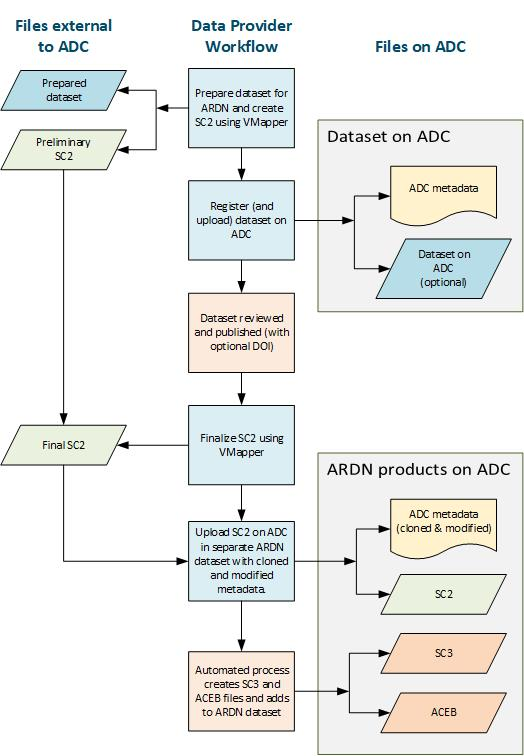
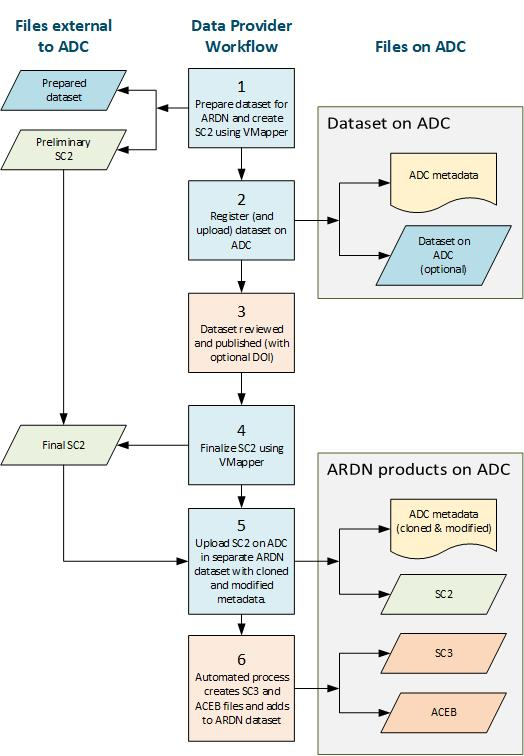
Data provider workflow

diff --git a/docs/DataProviderWorkflow.md b/docs/DataProviderWorkflow.md
@@ -1,3 +1,20 @@
-# Data Provider Workflow
+# Data Provider Workflow for Ag Data Commons
 
-![image](https://github.com/agmip/ARDN/raw/master/docs/images/SC2.jpg)
+The diagram below presents a typical workflow for an ARDN data provider sharing data through [Ag Data Commons (ADC)](https://data.nal.usda.gov/).
+
+**Step 1.** A researcher wanting to ARDN-ize their data would first prepare the data for archiving on their local computer or server. If the dataset has already been archived on ADC, this step may not be necessary. However, for complex datasets, some data manipulation may be required in order to establish relational linkages within the dataset, which is a necessary element of ARDN.
+
+- We strongly suggest the use of Tidy Data principles for preparing datasets to be used for any type of analyses. Links to tidy data paper and other useful information can be found **[here](TidyData.md)**. 
+
+- [VMapper](VMapper.md) is used to map the variables in the dataset to the ICASA vocabulary terms. The units of the raw data are declared so that they can be converted to ICASA-compliant units at the time of translation.
+
+- The end result of VMapper is a Sidecar 2 file or [SC2](Annotation_SC2.md), a data annotation file in JSON format. This is may not be the final version of SC2 as it does not yet contain the links to the dataset archived on Ag Data Commons. However, if the dataset being mapped has already been archived with a permanent digital object identifier (DOI) or other permanent link, then the SC2 can be finalized at this stage. 
+
+**Step 2.**
+When the dataset is prepared and annotated, it can be registered and uploaded to Ag Data Commons. A user must have a free account on Ag Data Commons. A very clear [Data Submissions Manual](https://data.nal.usda.gov/ag-data-commons-data-submission-manual) is provided to assist users in the process of creating metadata and uploading data files. The user decides when the metadata and dataset are ready for review.
+
+**Step 3.**
+The metadata goes through a curation review process and when ready, the dataset is published and a DOI is assigned (optional).
+
+
+![image](https://raw.githubusercontent.com/agmip/ARDN/master/docs/images/DataProviderWorkflow_web.jpg)

diff --git a/docs/ARDN_how.md b/docs/ARDN_how.md
@@ -10,8 +10,6 @@ The **ARDN Data Provider Tools** include [VMapper](VMapper.md), which allows a u
 
 Find more information **[here]()** on the workflow for a data provider.
 
-We strongly suggest the use of Tidy Data principles for preparing datasets to be used for any type of analyses. Links to tidy data paper and other useful information can be found **[here](TidyData.md)**.
-
 
 The **Data Tranlsation API** performs all translation functions, including conversion of a dataset to AgMIP ACEB format, translation from ACEB format to end-user formats, and extraction of a subset of data to be included in Sidecar File 3 (SC3).
 

diff --git a/docs/Annotation_SC2.md b/docs/Annotation_SC2.md
@@ -2,4 +2,4 @@
 
 Under construction
 
-<!--![image](https://github.com/agmip/ARDN/raw/master/docs/images/SC2.jpg) -->
+![image](https://github.com/agmip/ARDN/raw/master/docs/images/SC2.jpg)
